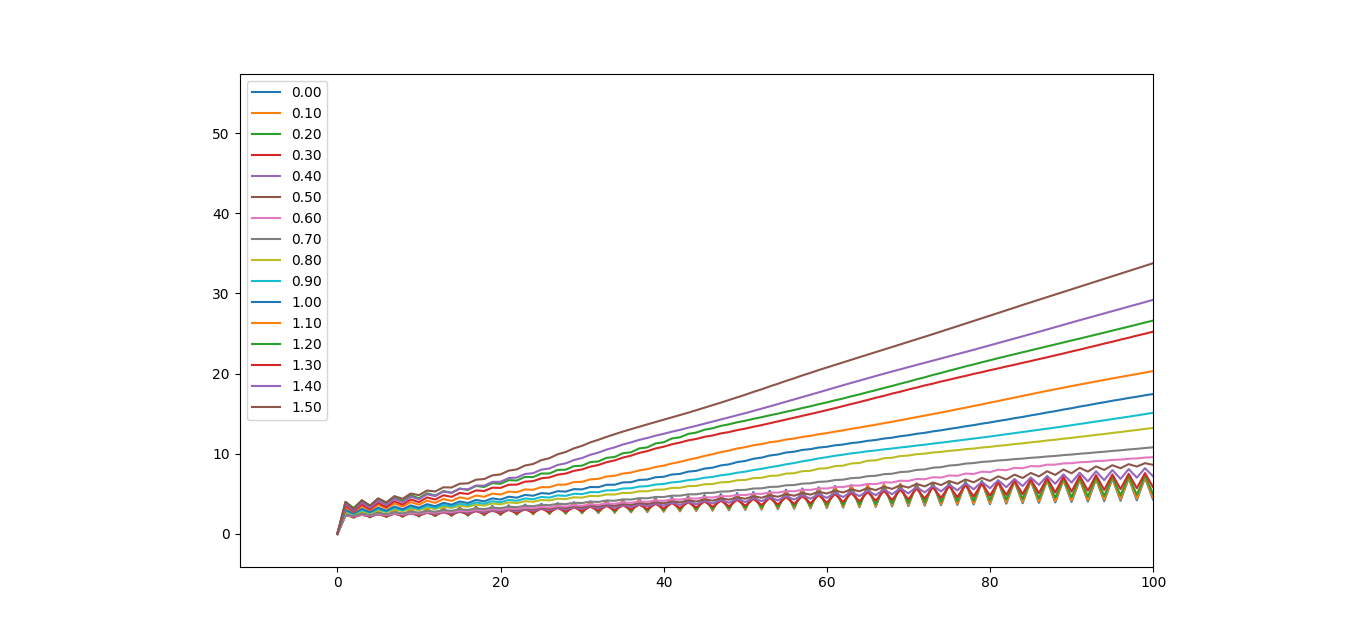
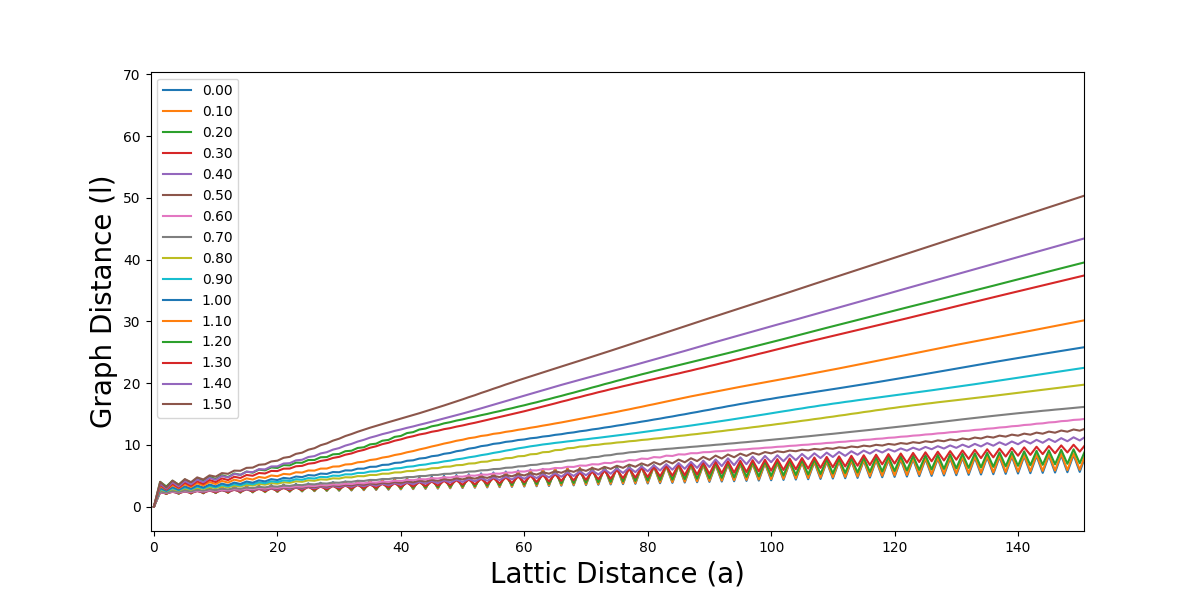
updated distance graphs for larger labels

diff --git a/asp.py b/asp.py
@@ -61,6 +61,8 @@ def visualize_paths(files):
             else:
                 avg_path_data.append(float(lines))
         plt.plot(x_vals,avg_path_data,label=label)
+        plt.xlabel('Lattic Distance (a)', fontsize=20)
+        plt.ylabel('Graph Distance (l)', fontsize=20)
     plt.legend()
     plt.show()
 
